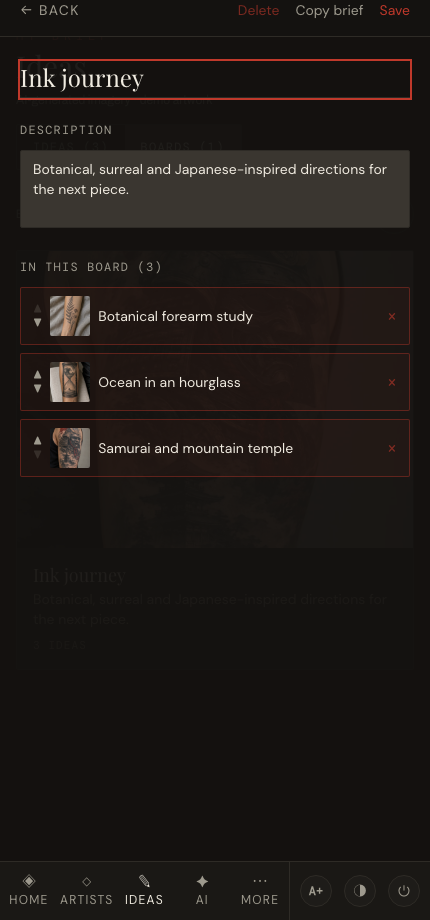
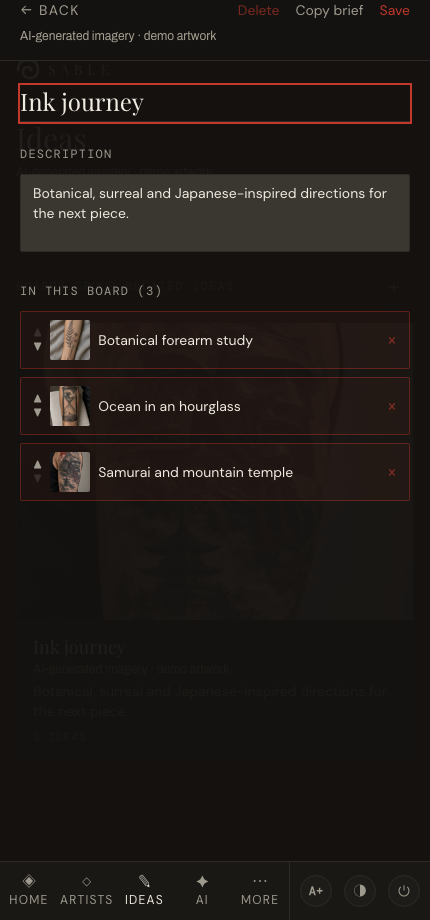
fix(demo): keep generated art labeled

Changed region(s): [[0.0302, 0.0304, 0.9674, 0.5478], [0.907, 0.3652, 0.9372, 0.4565], [0.9372, 0.5174, 0.9674, 0.5478]]

diff --git a/src/pages/Help.jsx b/src/pages/Help.jsx
@@ -10,7 +10,7 @@ const SECTIONS = [
     blurb: 'The Wall, the full-screen viewer, and how to move around.',
     image: 'wall.png',
     steps: [
-      'The public demo contains six invented artists with AI-generated tattoo imagery. Its label stays visible on the Wall, gallery and viewer after you dismiss the introduction. Demo updates reset sample artists and ideas, including your edits; real accounts are untouched. Lettering examples are concepts, not language-verified tattoo stencils.',
+      'The public demo contains six invented artists with AI-generated tattoo imagery. Its label stays visible on the Wall, gallery, viewer, ranking and image-bearing editors after you dismiss the introduction. Demo updates reset sample artists and ideas, including your edits; real accounts are untouched. Lettering examples are concepts, not language-verified tattoo stencils.',
       'Sign in with your email and password to open the app. Your artists, ideas, boards and concepts are tied to your account and follow you across devices — add something on your Mac and it appears on your iPhone.',
       'You open on the Wall: every photo from every artist in your collection, edge to edge. The artist’s name sits along the bottom of each tile on touch, and fades in on hover with a mouse; a red dot means it was added in the last 14 days.',
       'Pinned just under the bar is your Top 5 — the five artists you’ve ranked highest. Drag the rank number on any tile to reorder the five, or tap Rank ⤢ to open the full ranking board.',
@@ -45,7 +45,7 @@ const SECTIONS = [
     blurb: 'Rank from the Home Top 5, browse four ways, and filter by style.',
     image: 'gallery-grid.png',
     steps: [
-      'Demo portfolios span botanical, surrealist, Japanese-inspired, tribal, colour-realism and brush-lettering styles. The AI-generated imagery label follows the sample artwork, independently of editable notes.',
+      'Demo portfolios span botanical, surrealist, Japanese-inspired, tribal, colour-realism and brush-lettering styles. The AI-generated imagery label follows the sample artwork into Browse and Rank, independently of editable notes.',
       'The quickest place to rank is the Home Wall: your Top 5 is pinned at the top. Drag the rank number on any tile to reorder the five, or tap Rank ⤢ to open the full ranking board — Top 5 pinned, everyone else below, with ▲ / ▼ on every row, Drop ↓ to push an artist out of the Top 5, and ↑ To top 5 to pull one in. Esc returns to the Wall.',
       'Open Drawer → Classic gallery for structured browsing. Switch views with the toggle: ☰ Filmstrip, ⊟ Compare, ⊞ Grid, ▦ Style Wall.',
       'Tap a style tag in the filter bar to show only artists with that tag; tap All to clear it.',
@@ -63,6 +63,7 @@ const SECTIONS = [
     image: 'brief-idea-editor.png',
     steps: [
       'Open Ideas and tap + to create an idea. Add a title, description, style tags, body placement and reference images.',
+      'An AI-generated imagery label stays visible in an idea or board editor when it shows a shipped demo image; a Board cover is labeled even if its linked ideas have no demo images.',
       'With a Gemini key set and a reference image uploaded, Fill idea from image drafts the title, description, tags and placement from the image — only fields you left empty are filled.',
       'As you add style tags, matching artists appear ranked by overlap, status and rank — tap to link them to the idea.',
       'Use Copy brief to put a shareable, formatted summary on your clipboard.',
@@ -96,6 +97,7 @@ const SECTIONS = [
     image: 'concepts.png',
     steps: [
       'Switch to Concepts from the bar — or press G while viewing an artist full-screen, and the composer opens already steered to them.',
+      'If a saved concept reuses shipped demo artwork, its AI-generated imagery label appears on the tile and stays visible in the viewer.',
       'The composer is one panel: the steer card (tap change to pick another artist), your idea, a placement, then Generate image or Copy prompt instead. Your draft is kept on this device, so hopping out to another AI tab never loses it.',
       'No API key? Copy prompt, run it in ChatGPT, Claude, Gemini or AI Studio (great with a Google AI Pro subscription), then drop or paste the result into the composer — it saves to the wall exactly like a generated image.',
       'To generate in-app, open AI setup in the composer and add a paid OpenAI or Gemini API key (~$0.04/image, billing required; stored only on this device).',

diff --git a/src/components/BoardsSection.jsx b/src/components/BoardsSection.jsx
@@ -1,5 +1,6 @@
 import { useState } from 'react'
 import { getImageUrl } from '../data/planning'
+import GeneratedArtworkNotice from './GeneratedArtworkNotice'
 import {
   BLANK_BOARD,
   addIdeaToBoard,
@@ -33,6 +34,7 @@ function BoardCard({ board, ideas, onOpen }) {
       </div>
       <div className="p-4">
         <h3 className="font-display text-cream text-lg leading-tight mb-0.5">{board.name || 'Untitled board'}</h3>
+        <GeneratedArtworkNotice images={[cover]} className="mb-1" />
         {board.description && (
           <p className="text-cream-muted text-sm font-body line-clamp-2 mb-2">{board.description}</p>
         )}
@@ -75,35 +77,41 @@ function BoardModal({ board, onClose, onSave, onDelete, ideas, artists }) {
 
   return (
     <div className="fixed inset-0 z-50 bg-ink-black/95 flex flex-col animate-fade-in overflow-y-auto">
-      <div className="flex items-center justify-between px-5 pt-safe-top pt-6 pb-4 border-b border-ink-border sticky top-0 bg-ink-black z-10">
-        <button onClick={onClose} className="text-cream-muted hover:text-cream text-sm tracking-widest uppercase">
-          ← Back
-        </button>
-        <div className="flex gap-4">
-          {!isNew && (
+      <div className="px-5 pt-safe-top pt-6 pb-4 border-b border-ink-border sticky top-0 bg-ink-black z-10">
+        <div className="flex items-center justify-between">
+          <button onClick={onClose} className="text-cream-muted hover:text-cream text-sm tracking-widest uppercase">
+            ← Back
+          </button>
+          <div className="flex gap-4">
+            {!isNew && (
+              <button
+                onClick={() => {
+                  if (confirm(`Delete board "${draft.name}"? Ideas will not be deleted.`)) {
+                    onDelete(board.id)
+                    onClose()
+                  }
+                }}
+                className="text-accent/60 hover:text-accent text-sm transition-colors"
+              >
+                Delete
+              </button>
+            )}
             <button
-              onClick={() => {
-                if (confirm(`Delete board "${draft.name}"? Ideas will not be deleted.`)) {
-                  onDelete(board.id)
-                  onClose()
-                }
-              }}
-              className="text-accent/60 hover:text-accent text-sm transition-colors"
+              onClick={copyBoardBrief}
+              disabled={!draft.name.trim()}
+              className="text-cream-muted hover:text-cream disabled:opacity-30 text-sm transition-colors"
             >
-              Delete
+              {copied ? 'Copied' : 'Copy brief'}
             </button>
-          )}
-          <button
-            onClick={copyBoardBrief}
-            disabled={!draft.name.trim()}
-            className="text-cream-muted hover:text-cream disabled:opacity-30 text-sm transition-colors"
-          >
-            {copied ? 'Copied' : 'Copy brief'}
-          </button>
-          <button onClick={save} className="text-accent hover:text-accent-hover text-sm font-body transition-colors">
-            {isNew ? 'Add' : 'Save'}
-          </button>
+            <button onClick={save} className="text-accent hover:text-accent-hover text-sm font-body transition-colors">
+              {isNew ? 'Add' : 'Save'}
+            </button>
+          </div>
         </div>
+        <GeneratedArtworkNotice images={[
+          getBoardCover(draft, ideas),
+          ...ideas.flatMap((idea) => idea.images || []),
+        ]} className="mt-2" />
       </div>
 
       <div className="flex-1 px-5 py-6 max-w-2xl mx-auto w-full space-y-6">

diff --git a/src/pages/Brief.jsx b/src/pages/Brief.jsx
@@ -3,6 +3,7 @@ import { useSearchParams } from 'react-router'
 import TagPill from '../components/TagPill'
 import Logo from '../components/Logo'
 import BoardsSection from '../components/BoardsSection'
+import { getBoardCover } from '../data/boards'
 import ArtistImage from '../components/ArtistImage'
 import GeneratedArtworkNotice from '../components/GeneratedArtworkNotice'
 import { STYLE_TAGS, PLACEMENTS } from '../data/artists'
@@ -238,27 +239,30 @@ function IdeaModal({ idea, onClose, onSave, onDelete, onRestoreImages, artists, 
 
   return (
     <div className="fixed inset-0 z-50 bg-ink-black/95 flex flex-col animate-fade-in overflow-y-auto">
-      <div className="flex items-center justify-between px-5 pt-safe-top pt-6 pb-4 border-b border-ink-border sticky top-0 bg-ink-black z-10">
-        <button onClick={onClose} className="text-cream-muted hover:text-cream text-sm tracking-widest uppercase">
-          ← Back
-        </button>
-        <div className="flex gap-4">
-          {!isNew && (
-            <button onClick={() => { onDelete(idea.id); onClose() }} className="text-accent/60 hover:text-accent text-sm transition-colors">
-              Delete
+      <div className="px-5 pt-safe-top pt-6 pb-4 border-b border-ink-border sticky top-0 bg-ink-black z-10">
+        <div className="flex items-center justify-between">
+          <button onClick={onClose} className="text-cream-muted hover:text-cream text-sm tracking-widest uppercase">
+            ← Back
+          </button>
+          <div className="flex gap-4">
+            {!isNew && (
+              <button onClick={() => { onDelete(idea.id); onClose() }} className="text-accent/60 hover:text-accent text-sm transition-colors">
+                Delete
+              </button>
+            )}
+            <button
+              onClick={copyBrief}
+              disabled={!draft.title.trim()}
+              className="text-cream-muted hover:text-cream disabled:opacity-30 text-sm transition-colors"
+            >
+              {copied ? 'Copied' : 'Copy brief'}
             </button>
-          )}
-          <button
-            onClick={copyBrief}
-            disabled={!draft.title.trim()}
-            className="text-cream-muted hover:text-cream disabled:opacity-30 text-sm transition-colors"
-          >
-            {copied ? 'Copied' : 'Copy brief'}
-          </button>
-          <button onClick={save} className="text-accent hover:text-accent-hover text-sm font-body transition-colors">
-            {isNew ? 'Add' : 'Save'}
-          </button>
+            <button onClick={save} className="text-accent hover:text-accent-hover text-sm font-body transition-colors">
+              {isNew ? 'Add' : 'Save'}
+            </button>
+          </div>
         </div>
+        <GeneratedArtworkNotice images={images} className="mt-2" />
       </div>
 
       <div className="flex-1 px-5 py-6 max-w-2xl mx-auto w-full space-y-6">
@@ -574,7 +578,10 @@ export default function Brief({ ideas, setIdeas, artists, mergedConventions = []
           <Logo size={24} className="mb-2" />
           <p className="font-mono text-xs text-accent tracking-[0.4em] uppercase mb-1">My Brief</p>
           <h1 className="font-display text-3xl text-cream">Ideas</h1>
-          <GeneratedArtworkNotice images={ideas.flatMap((idea) => idea.images || [])} className="mt-2" />
+          <GeneratedArtworkNotice images={[
+            ...ideas.flatMap((idea) => idea.images || []),
+            ...boards.map((board) => getBoardCover(board, ideas)),
+          ]} className="mt-2" />
         </div>
         {tab === 'ideas' && (
           <button

diff --git a/src/test/BriefTabs.test.jsx b/src/test/BriefTabs.test.jsx
@@ -1,5 +1,5 @@
 import { describe, it, expect, vi, beforeEach } from 'vitest'
-import { render, screen, fireEvent } from '@testing-library/react'
+import { render, screen, fireEvent, within } from '@testing-library/react'
 import { MemoryRouter } from 'react-router'
 import Brief from '../pages/Brief'
 
@@ -40,7 +40,33 @@ describe('Brief Ideas | Boards tabs', () => {
     renderBrief({ props: { ideas: [{ ...ideas[0], images: [{ url: 'images/demo/mora.blackfern/fern-v4.webp' }] }] } })
     expect(screen.getByText(/AI-generated imagery/)).toBeInTheDocument()
     fireEvent.click(screen.getByRole('button', { name: /boards/i }))
-    expect(screen.getByText(/AI-generated imagery/)).toBeInTheDocument()
+    expect(screen.getAllByText(/AI-generated imagery/)).not.toHaveLength(0)
+  })
+
+  it('shows the generated-art notice inside an idea editor with a demo reference', () => {
+    renderBrief({ props: { ideas: [{ ...ideas[0], images: [{ url: 'images/demo/mora.blackfern/fern-v4.webp' }] }] } })
+    fireEvent.click(screen.getByText('Koru unfurling'))
+    expect(within(screen.getByRole('button', { name: '← Back' }).closest('.fixed')).getByText(/AI-generated imagery/)).toBeInTheDocument()
+  })
+
+  it('discloses an explicit demo Board cover without relying on idea images', () => {
+    renderBrief({
+      route: '/brief?tab=boards',
+      props: { boards: [{ ...boards[0], cover: 'images/demo/mora.blackfern/fern-v4.webp' }] },
+    })
+    const board = screen.getByRole('button', { name: /Dark folklore/i })
+    expect(within(board).getByText(/AI-generated imagery/)).toBeInTheDocument()
+    fireEvent.click(board)
+    expect(within(screen.getByRole('button', { name: '← Back' }).closest('.fixed')).getByText(/AI-generated imagery/)).toBeInTheDocument()
+  })
+
+  it('shows the generated-art notice inside a Board editor with a demo idea', () => {
+    renderBrief({
+      route: '/brief?tab=boards',
+      props: { ideas: [{ ...ideas[0], images: [{ url: 'images/demo/mora.blackfern/fern-v4.webp' }] }] },
+    })
+    fireEvent.click(screen.getByRole('button', { name: /Dark folklore/i }))
+    expect(within(screen.getByRole('button', { name: '← Back' }).closest('.fixed')).getByText(/AI-generated imagery/)).toBeInTheDocument()
   })
 
   it('switches to Boards and back', () => {

diff --git a/src/test/Concepts.test.jsx b/src/test/Concepts.test.jsx
@@ -1,6 +1,6 @@
 import { useState } from 'react'
 import { describe, expect, it, beforeEach } from 'vitest'
-import { render, screen, fireEvent, waitFor } from '@testing-library/react'
+import { render, screen, fireEvent, waitFor, within } from '@testing-library/react'
 import { MemoryRouter } from 'react-router'
 import Concepts from '../pages/Concepts'
 import { COMPOSER_DRAFT_KEY, loadComposerDraft, saveComposerDraft } from '../data/composerDraft'
@@ -31,6 +31,21 @@ describe('Concepts page', () => {
     ]
     render(<ConceptsHarness initialConcepts={concepts} />)
     expect(screen.getAllByRole('img')).toHaveLength(2)
+  })
+
+  it('labels a saved concept tile when it reuses shipped demo artwork', () => {
+    render(<ConceptsHarness initialConcepts={[
+      { id: 'demo', prompt: 'An hourglass', imageUrl: '/images/demo/vesper_noctis/hourglass-v4.webp', tags: [] },
+    ]} />)
+    expect(within(screen.getByAltText('An hourglass').closest('figure')).getByText(/AI-generated imagery/)).toBeInTheDocument()
+  })
+
+  it('keeps the demo artwork label visible in the full-screen concept viewer', () => {
+    render(<ConceptsHarness initialConcepts={[
+      { id: 'demo', prompt: 'An hourglass', imageUrl: '/images/demo/vesper_noctis/hourglass-v4.webp', tags: [] },
+    ]} />)
+    fireEvent.click(screen.getByAltText('An hourglass'))
+    expect(within(screen.getByRole('dialog')).getByText(/AI-generated imagery/)).toBeInTheDocument()
   })
 
   it('opens the full-screen viewer when a concept piece is clicked', () => {

diff --git a/src/test/GalleryManage.test.jsx b/src/test/GalleryManage.test.jsx
@@ -1,5 +1,5 @@
 import { describe, it, expect, vi, beforeEach } from 'vitest'
-import { render, screen, fireEvent } from '@testing-library/react'
+import { render, screen, fireEvent, within } from '@testing-library/react'
 import { MemoryRouter } from 'react-router'
 import Gallery from '../pages/Gallery'
 
@@ -21,6 +21,18 @@ describe('Gallery manage mode', () => {
   it('discloses generated artwork independently of editable notes and demo session', () => {
     renderGallery({ artists: [{ ...baseArtists[0], notes: '', images: ['images/demo/mora.blackfern/fern-v4.webp'] }] })
     expect(screen.getByText(/AI-generated imagery/)).toBeInTheDocument()
+  })
+
+  it('keeps the generated-art notice visible inside Browse', () => {
+    renderGallery({ artists: [{ ...baseArtists[0], images: ['images/demo/mora.blackfern/fern-v4.webp'] }] })
+    fireEvent.click(screen.getByRole('button', { name: 'Browse' }))
+    expect(within(screen.getByRole('button', { name: /back/i }).closest('.fixed')).getByText(/AI-generated imagery/)).toBeInTheDocument()
+  })
+
+  it('keeps the generated-art notice visible inside Rank', () => {
+    renderGallery({ artists: [{ ...baseArtists[0], images: ['images/demo/mora.blackfern/fern-v4.webp'] }] })
+    fireEvent.click(screen.getByRole('button', { name: 'Rank' }))
+    expect(within(screen.getByRole('button', { name: 'Cancel' }).closest('.fixed')).getByText(/AI-generated imagery/)).toBeInTheDocument()
   })
 
   beforeEach(() => localStorage.clear())

diff --git a/src/components/RankingMode.jsx b/src/components/RankingMode.jsx
@@ -1,6 +1,7 @@
 import { useState, useRef, useEffect } from 'react'
 import { computeSwipeRanking } from '../data/ranking'
 import ArtistImage from './ArtistImage'
+import GeneratedArtworkNotice from './GeneratedArtworkNotice'
 import TagPill from './TagPill'
 import { DEFAULT_STUDIOS } from '../data/artists'
 
@@ -43,6 +44,7 @@ function SummaryScreen({ decisions, artists, onApply, onDiscard }) {
         <h2 className="font-display text-4xl text-cream mb-8 leading-none">
           {total} artists<br />sorted
         </h2>
+        <GeneratedArtworkNotice images={artists.flatMap((a) => a.images || [])} className="-mt-5 mb-7" />
 
         {/* Visual proportion bar */}
         <div className="flex h-1.5 rounded-full overflow-hidden mb-8 gap-px">
@@ -258,6 +260,7 @@ export default function RankingMode({ artists, onClose, onApplyRanking }) {
       >
         <div className="mb-4">
           <h2 className="font-display text-3xl text-cream leading-tight">{displayName}</h2>
+          <GeneratedArtworkNotice images={images} className="mt-1" />
           {artist.name && (
             <p className="font-mono text-[0.8125rem] text-cream-muted/50 mt-0.5">@{artist.handle}</p>
           )}

diff --git a/src/components/ArtistBrowse.jsx b/src/components/ArtistBrowse.jsx
@@ -1,5 +1,6 @@
 import { useState, useRef, useEffect, useCallback } from 'react'
 import ArtistImage from './ArtistImage'
+import GeneratedArtworkNotice from './GeneratedArtworkNotice'
 
 export default function ArtistBrowse({ artists, startIndex = 0, onClose }) {
   const withImages = artists.filter((a) => a.images?.length > 0)
@@ -132,6 +133,7 @@ export default function ArtistBrowse({ artists, startIndex = 0, onClose }) {
         <div className="flex items-end justify-between">
           <div>
             <h2 className="font-display text-2xl text-cream leading-tight">{displayName}</h2>
+            <GeneratedArtworkNotice images={[images[imageIdx]]} className="mt-1" />
             {artist.name && (
               <p className="font-mono text-[0.8125rem] text-cream-muted/60 mt-0.5">@{artist.handle}</p>
             )}

diff --git a/src/components/ConceptPiece.jsx b/src/components/ConceptPiece.jsx
@@ -1,6 +1,8 @@
 // A single concept on the Concepts wall — same visual language as WallPiece
 // (v2 tokens, hover caption, full-bleed image). Adds a variants-count badge
 // in the top-left corner when the concept has saved results.
+import GeneratedArtworkNotice from './GeneratedArtworkNotice'
+
 export default function ConceptPiece({ item, onOpen }) {
   return (
     <figure
@@ -12,6 +14,11 @@ export default function ConceptPiece({ item, onOpen }) {
         alt={item.title}
         loading="lazy"
         className="w-full block grayscale-[0.15] group-hover:grayscale-0 transition-[filter] duration-300"
+      />
+
+      <GeneratedArtworkNotice
+        images={[item.imageUrl]}
+        className="absolute top-2 right-2 max-w-[65%] rounded-xs bg-v2-ink/85 px-2 py-1"
       />
 
       {item.variantsCount > 0 && (

diff --git a/src/components/ConceptViewer.jsx b/src/components/ConceptViewer.jsx
@@ -6,6 +6,7 @@ import useSwipeTap from '../hooks/useSwipeTap'
 import useViewportZoomed from '../hooks/useViewportZoomed'
 import ConceptVariantLab from './ConceptVariantLab'
 import ConceptVisualMatches from './ConceptVisualMatches'
+import GeneratedArtworkNotice from './GeneratedArtworkNotice'
 import GlCrossfade from './GlCrossfade'
 import ViewerSheetToggle from './ViewerSheetToggle'
 import SavedPromptPack from './SavedPromptPack'
@@ -258,6 +259,11 @@ export default function ConceptViewer({
           </div>
         )}
       </div>
+
+      <GeneratedArtworkNotice
+        images={[current.imageUrl]}
+        className="absolute top-16 left-4 z-20 rounded-xs bg-v2-ink/85 px-2 py-1 pointer-events-none"
+      />
 
       {touch ? (
         <div className="absolute inset-0 pointer-events-none">

diff --git a/src/data/demoArtwork.js b/src/data/demoArtwork.js
@@ -44,4 +44,3 @@ export function demoResponsiveProps(image, base) {
     height: 1536,
   }
 }
-

diff --git a/README.md b/README.md
@@ -42,7 +42,7 @@ npm run dev
 #   http://localhost:5173/?demo=1
 ```
 
-The sign-in screen also links straight to it (**No account? View the demo →**), so the bare URL isn't a dead end for anyone without an account. `?demo=1` (on the default local backend) signs in a demo session and seeds six fictional artists, ranked and statused, plus a few linked tattoo ideas. It never runs over an existing session (though an out-of-date demo session re-seeds itself, so returning visitors always see the current dataset), and edits you make in the demo persist across reloads. To reset, clear the site's storage (or use a fresh private window). The demo artwork is original, hand-authored SVG — one coherent tattoo style per artist (botanical, celestial, sacred geometry, bold blackwork, dotwork, and script lettering across katakana, hanzi and Gujarati).
+The sign-in screen also links straight to it (**No account? View the demo →**), so the bare URL isn't a dead end for anyone without an account. `?demo=1` (on the default local backend) signs in a demo session and seeds six fictional artists, ranked and statused, plus a few linked tattoo ideas. It never runs over an existing session (though an out-of-date demo session re-seeds itself, so returning visitors always see the current dataset), and edits you make in the demo persist across reloads. To reset, clear the site's storage (or use a fresh private window). The demo uses 18 original AI-generated tattoo photographs across botanical, surrealist, Japanese-inspired, tribal, colour-realism and brush-lettering portfolios. The generated-imagery label remains visible across the demo's main browsing and editing views; lettering is a concept, not a language-verified tattoo stencil.
 
 | Artists gallery | Brief (ideas) |
 | --- | --- |
@@ -116,7 +116,7 @@ restore.
 
 ## Testing philosophy
 
-The project is built TDD-first: behaviour is specified in a failing test before implementation, and any change to seed data must keep the data-integrity tests green. The suite is 1421 Vitest tests across 151 files (`src/test/`), covering pure data modules directly and hooks/components via Testing Library. A contract test (`src/test/readmeClaims.test.js`) asserts the file count exactly and bounds the claimed test total against the statically visible case declarations, with headroom for generated `it.each` cases. Non-bundled files that Vitest can't import — like the hand-rolled service worker — follow a pure-module + contract-test pattern: the logic lives in importable modules (`src/sw/precache.js`, `src/sw/swStrategy.js`) with unit tests, plus contract tests (`src/test/precache.test.js`, `src/test/swStrategy.test.js`) that read `public/sw.js` as text and assert its key invariants. The local adapter and an in-memory mock share a contract test (`src/test/backendContract.test.js`), proving the seam without provider credentials; the suite is pinned to the offline local backend so it runs without secrets or network — in CI too.
+The project is built TDD-first: behaviour is specified in a failing test before implementation, and any change to seed data must keep the data-integrity tests green. The suite is 1429 Vitest tests across 151 files (`src/test/`), covering pure data modules directly and hooks/components via Testing Library. A contract test (`src/test/readmeClaims.test.js`) asserts the file count exactly and bounds the claimed test total against the statically visible case declarations, with headroom for generated `it.each` cases. Non-bundled files that Vitest can't import — like the hand-rolled service worker — follow a pure-module + contract-test pattern: the logic lives in importable modules (`src/sw/precache.js`, `src/sw/swStrategy.js`) with unit tests, plus contract tests (`src/test/precache.test.js`, `src/test/swStrategy.test.js`) that read `public/sw.js` as text and assert its key invariants. The local adapter and an in-memory mock share a contract test (`src/test/backendContract.test.js`), proving the seam without provider credentials; the suite is pinned to the offline local backend so it runs without secrets or network — in CI too.
 
 ## Useful Commands
 
@@ -136,7 +136,8 @@ Seed data lives in `src/data/`, with the artist list in `src/data/artists.js` an
 > are third-party portfolio work and are **not** included in this repository.
 > When they are absent (e.g. a fresh clone), the UI falls back to monogram
 > placeholders via `src/components/ArtistImage.jsx`. The demo artwork under
-> `public/images/demo/` is original hand-authored SVG and **is** committed.
+> `public/images/demo/` contains original AI-generated WebP photographs, labeled
+> throughout the app, and legacy hand-authored SVGs retained for saved references.
 
 Runtime edits are stored locally in the browser and mirrored to the selected backend:
 
